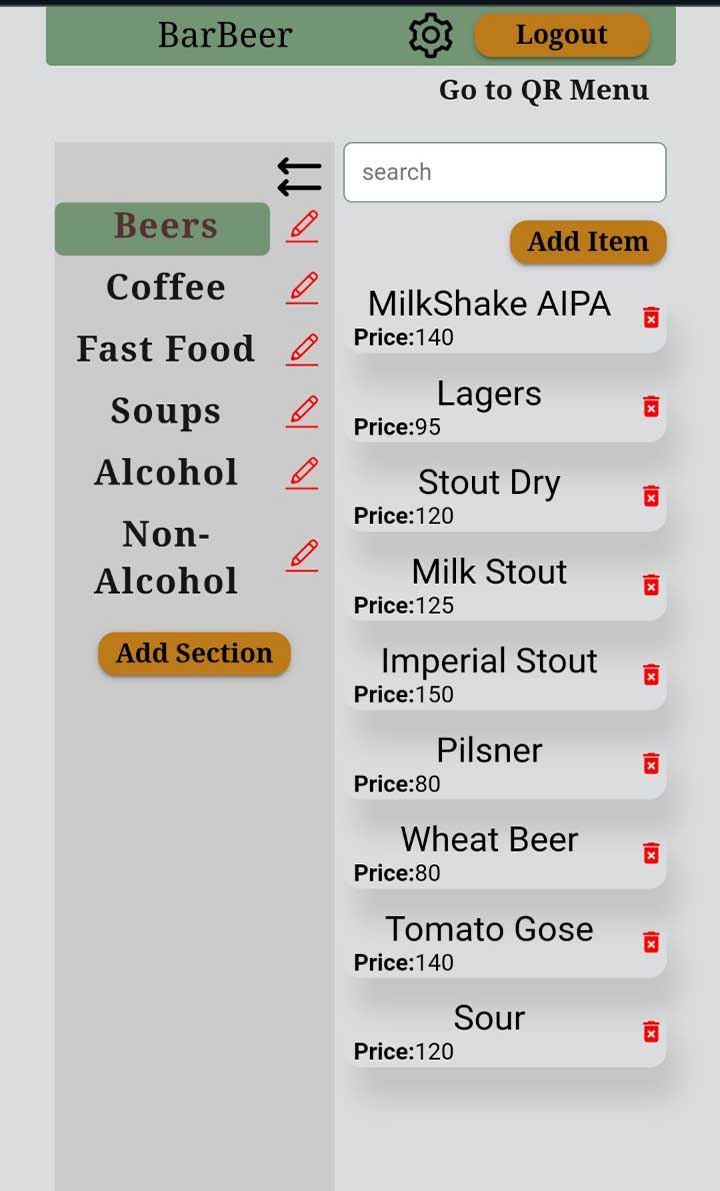
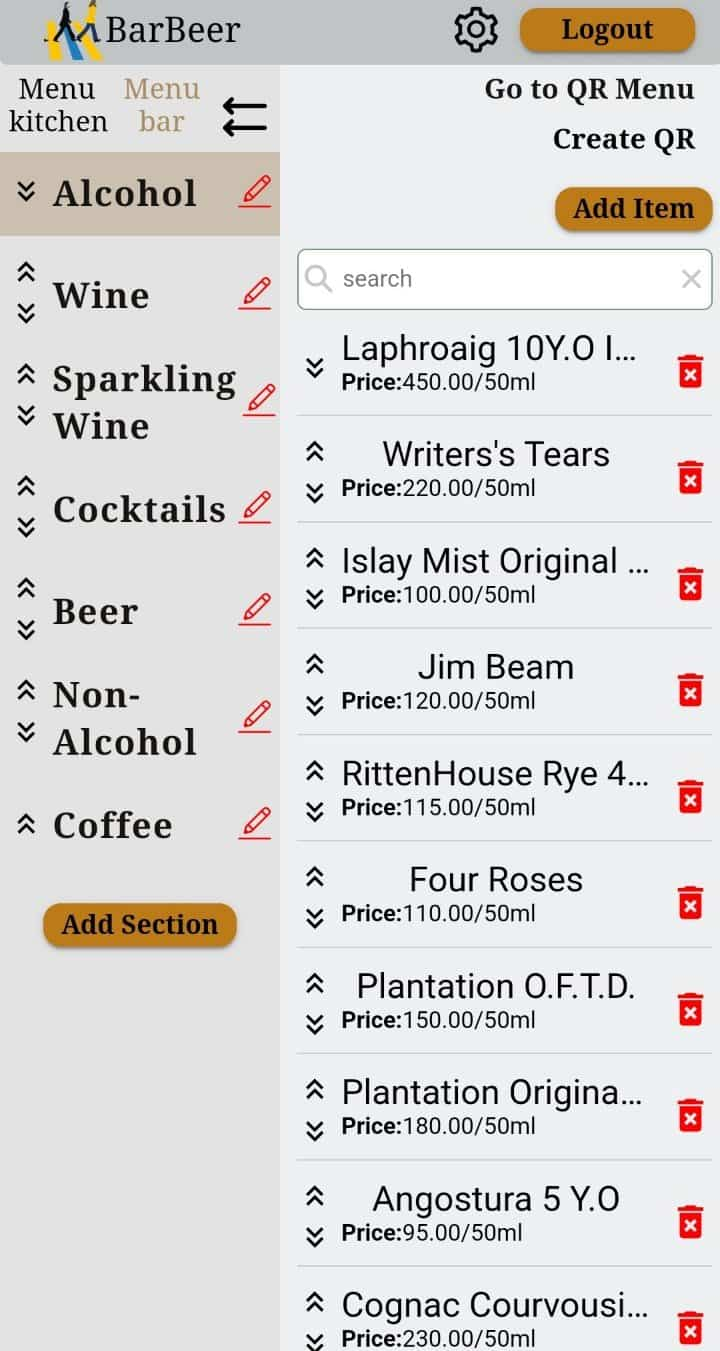
code optimization

diff --git a/src/components/Item/ModalItemDetail/ModalItemDetail.styled.jsx b/src/components/Item/ModalItemDetail/ModalItemDetail.styled.jsx
@@ -4,7 +4,7 @@ import { IoIosArrowDown } from 'react-icons/io';
 import { GrEdit } from 'react-icons/gr';
 import { MdOutlineAddAPhoto } from 'react-icons/md';
 import { MdDeleteForever } from 'react-icons/md';
-import { Btn, TextBtn } from 'components/Button/Button.styled';
+import { Btn, TextBtn } from 'components/common/GeneralStyle/Button.styled';
 
 export const ChangeImage = styled(GrEdit)``;
 export const AddImage = styled(MdOutlineAddAPhoto)``;

diff --git a/src/components/Navbar/NavbarSetting/NavbarSetting.styled.jsx b/src/components/Navbar/NavbarSetting/NavbarSetting.styled.jsx
@@ -1,7 +1,7 @@
 import styled from 'styled-components';
 import { NavLink } from 'react-router-dom';
 import { AiOutlineSetting } from 'react-icons/ai';
-import { Btn, TextBtn } from 'components/Button/Button.styled';
+import { Btn, TextBtn } from 'components/common/GeneralStyle/Button.styled';
 import { device } from 'Device';
 
 export const NavbarSettingName = styled.div`

diff --git a/src/Pages/Users/Users.styled.jsx b/src/Pages/Users/Users.styled.jsx
@@ -1,7 +1,7 @@
 import styled from 'styled-components';
 import { NavLink } from 'react-router-dom';
 import { device } from 'Device';
-import { Btn, TextBtn } from 'components/Button/Button.styled';
+import { Btn, TextBtn } from 'components/common/GeneralStyle/Button.styled';
 
 export const Buttons = styled(Btn)`
   margin-top: 30px;

diff --git a/src/API/auth.js b/src/API/auth.js
@@ -2,9 +2,9 @@ import axios from 'axios';
 
 const instance = axios.create({
   baseURL:
-    // "http://192.168.0.108:3001/api"
+    "http://192.168.0.108:3001/api"
     // "http://localhost:3001/api" ,
-    'https://rest-api-back.onrender.com/api',
+    // 'https://rest-api-back.onrender.com/api',
 });
 
 const setToken = token => {

diff --git a/src/components/common/GeneralStyle/LogRegButton.styled.jsx b/src/components/common/GeneralStyle/LogRegButton.styled.jsx
@@ -1,6 +1,6 @@
 import styled from 'styled-components';
 import { device } from 'Device';
-import { Btn } from 'components/Button/Button.styled';
+import { Btn } from 'components/common/GeneralStyle/Button.styled';
 
 export const ButtonLogReg = styled(Btn)`
   @media ${device.mobile} {

diff --git a/src/components/LoginForm/LoginForm.styled.jsx b/src/components/LoginForm/LoginForm.styled.jsx
@@ -1,6 +1,6 @@
 import styled from 'styled-components';
 import { device } from 'Device';
-import { TextBtn } from 'components/Button/Button.styled';
+import { TextBtn } from 'components/common/GeneralStyle/Button.styled';
 
 export const FormLogin = styled.form`
   margin-top: 50px;

diff --git a/src/components/MenuItemsDetails/MenuItemsDetails.styled.jsx b/src/components/MenuItemsDetails/MenuItemsDetails.styled.jsx
@@ -1,5 +1,5 @@
 import styled, { css } from 'styled-components';
-import { Btn, TextBtn } from 'components/Button/Button.styled';
+import { Btn, TextBtn } from 'components/common/GeneralStyle/Button.styled';
 import { device } from 'Device';
 
 export const ItemsList = styled.div`

diff --git a/src/Pages/MenuItems/MenuItems.styled.jsx b/src/Pages/MenuItems/MenuItems.styled.jsx
@@ -1,5 +1,5 @@
 import styled, { css } from 'styled-components';
-import { Btn, TextBtn } from 'components/Button/Button.styled';
+import { Btn, TextBtn } from 'components/common/GeneralStyle/Button.styled';
 import { device } from 'Device';
 
 export const Sections = styled.div`

diff --git a/src/Pages/Registration/Registration.styled.jsx b/src/Pages/Registration/Registration.styled.jsx
@@ -1,6 +1,6 @@
 import styled from 'styled-components';
 import { device } from 'Device';
-import { TextBtn } from 'components/Button/Button.styled';
+import { TextBtn } from 'components/common/GeneralStyle/Button.styled';
 
 export const RegForm = styled.form`
   width: 100%;

diff --git a/src/components/Item/ModalItemAddForm/ModalItemAddForm.styled.jsx b/src/components/Item/ModalItemAddForm/ModalItemAddForm.styled.jsx
@@ -1,6 +1,6 @@
 import styled from 'styled-components';
 
-import { Btn, TextBtn } from 'components/Button/Button.styled';
+import { Btn, TextBtn } from 'components/common/GeneralStyle/Button.styled';
 
 export const AddButton = styled(Btn)`
   position: relative;

diff --git a/src/Pages/RegisterVerify/RegisterVerify.styled.jsx b/src/Pages/RegisterVerify/RegisterVerify.styled.jsx
@@ -1,5 +1,5 @@
 import styled from 'styled-components';
-import { Btn, TextBtn } from 'components/Button/Button.styled';
+import { Btn, TextBtn } from 'components/common/GeneralStyle/Button.styled';
 
 export const VerifyWrap = styled.div`
   margin-top: 100px;

diff --git a/src/components/Section/ModalChangeSectionName/ModalChangeSectionName.styled.jsx b/src/components/Section/ModalChangeSectionName/ModalChangeSectionName.styled.jsx
@@ -1,6 +1,6 @@
 import styled from 'styled-components';
 
-import { Btn, TextBtn } from 'components/Button/Button.styled';
+import { Btn, TextBtn } from 'components/common/GeneralStyle/Button.styled';
 export const BtnList = styled.div`
   margin-top: 10px;
 `;
